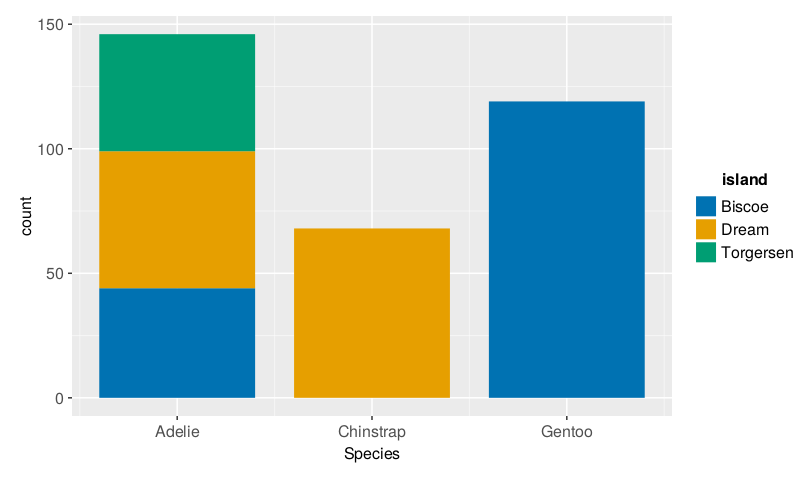
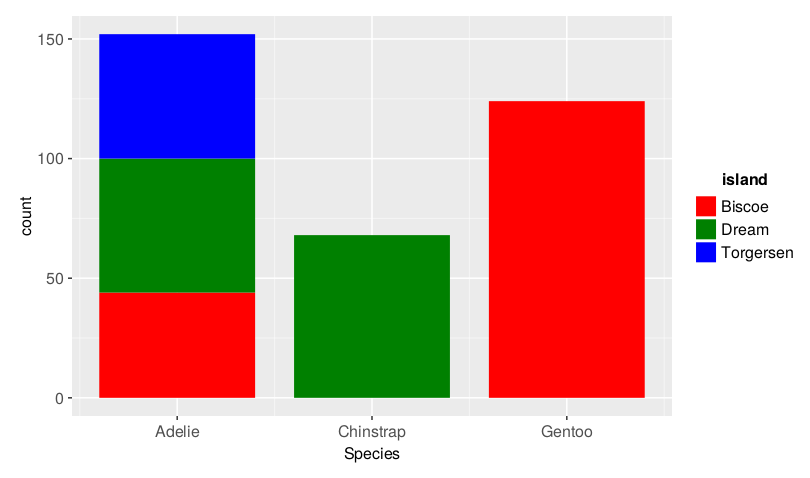
adds colour scales

diff --git a/README.md b/README.md
@@ -51,6 +51,7 @@ Geoms:
 - `@geom_bar`, `@geom_col`, and `@geom_histogram`
 - `@geom_boxplot` and `@geom_violin`
 - `@geom_contour` and `@geom_tile`
+- `@geom_density`
 - `@geom_text` and `@geom_label`
 
 Makie Themes (Note that these are **not macros**):
@@ -60,6 +61,11 @@ Makie Themes (Note that these are **not macros**):
 - `theme_black()`
 - `theme_white()`
 - `theme_minimal()`
+
+Colour Scales:
+
+- `@scale_colo[u]r_manual()` - give a list of hex values enclosed in `c()` to define a scale
+- `@scale_colo[u]r_[discrete|continuous]()` - give `palette =` one of the many Makie palettes [here]( https://docs.makie.org/stable/explanations/colors/index.html#colormaps). 
 
 Additional Elements:
 
@@ -87,15 +93,17 @@ penguins = dropmissing(DataFrame(PalmerPenguins.load()))
 
 ```julia
 @ggplot(data = penguins) +
-           @geom_bar(aes(x = species, color = island), position = "dodge") +
-           @labs(x = "Species", y = "Count", color = "Island of Origin")
+    @geom_bar(aes(x = species, color = island), position = "dodge") +
+    @labs(x = "Species", y = "Count", color = "Island of Origin") + 
+    @scale_colour_discrete(palette = "default")
 ```
 ![](assets/example_col_color.png)
 
 ```julia
 @ggplot(data = penguins) + 
     @geom_bar(aes(x = species, color = island), position = "stack") +
-    @labs(x = "Species")
+    @labs(x = "Species") + 
+    @scale_color_manual(values = c("red", "green", "blue"))
 ```
 ![](assets/example_col_stack.png)
 
@@ -113,7 +121,7 @@ penguins = dropmissing(DataFrame(PalmerPenguins.load()))
 ![](assets/example_point_smooth.png)
 
 ```julia
- @ggplot(penguins, aes(x = bill_length_mm, y = bill_depth_mm, color = species)) + 
+ @ggplot(penguins, aes(x = bill_length_mm, y = bill_depth_mm, color = bill_depth_mm)) + 
     @geom_point(shape = diamond, 
                 size = 20, 
                 stroke = 1, 
@@ -122,6 +130,7 @@ penguins = dropmissing(DataFrame(PalmerPenguins.load()))
     @labs(x = "Bill Length (mm)", y = "Bill Width (mm)") +
     @lims(x = c(40, 60), y = c(15, 20)) +
     theme_minimal()
+
 ```
 ![](assets/geom_point_customize.png)
 
@@ -164,7 +173,18 @@ p + @geom_errorbar(aes(ymin = lower, ymax = upper)) +
 ![](assets/errorbars.png)
 
 ```julia
-data(penguins) * Layer(@geom_point(aes(x = bill_length_mm, y = bill_depth_mm, color = species))) |> draw
+data(penguins) * 
+    Layer(@geom_point(aes(x = bill_length_mm, y = bill_depth_mm, color = species))) |> 
+    draw
 ```
 
 ![](assets/interop.png)
+
+```julia
+df = (x=rand(100), y=rand(100), z=rand(100))
+@ggplot(df) + 
+    @geom_point(aes(x = x, y = y, color = z)) + 
+    @scale_colour_continuous(palette = "batlowW100")
+```
+
+![](assets/continuous.png)
